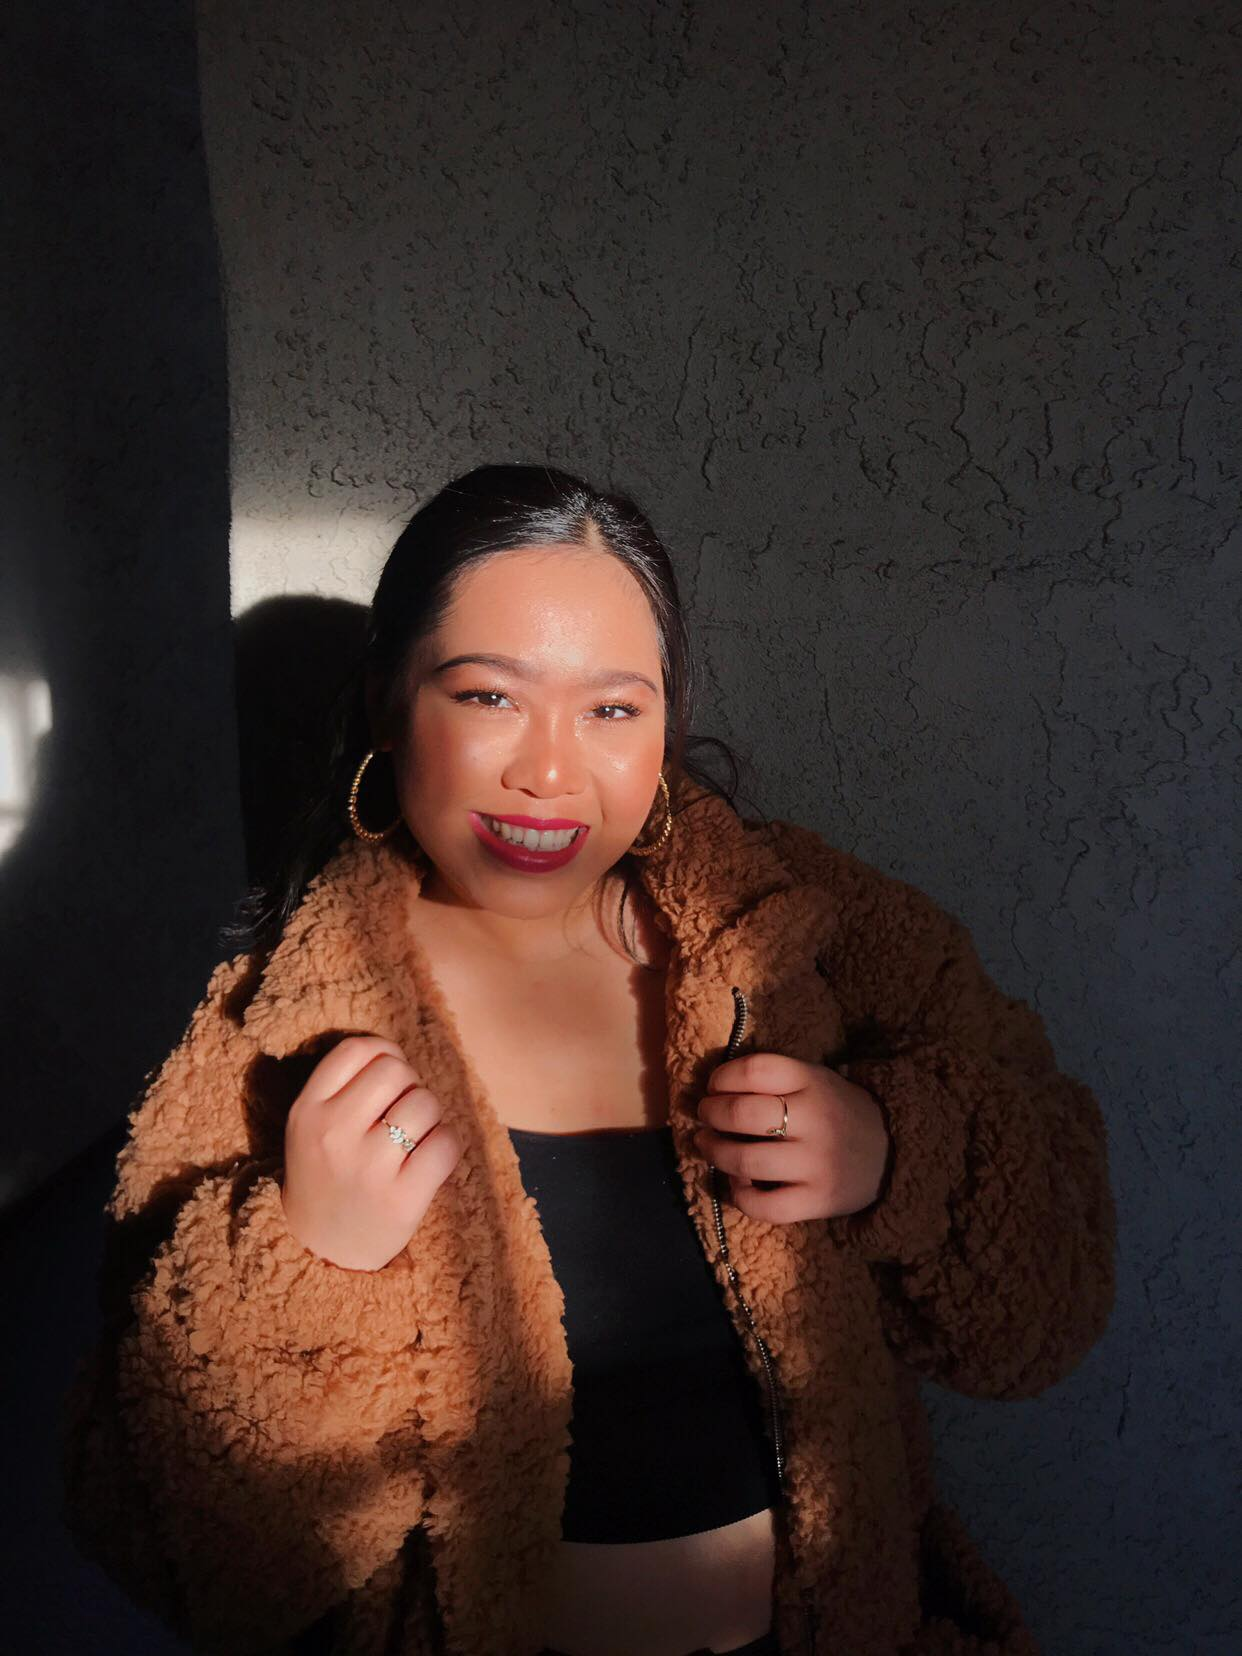
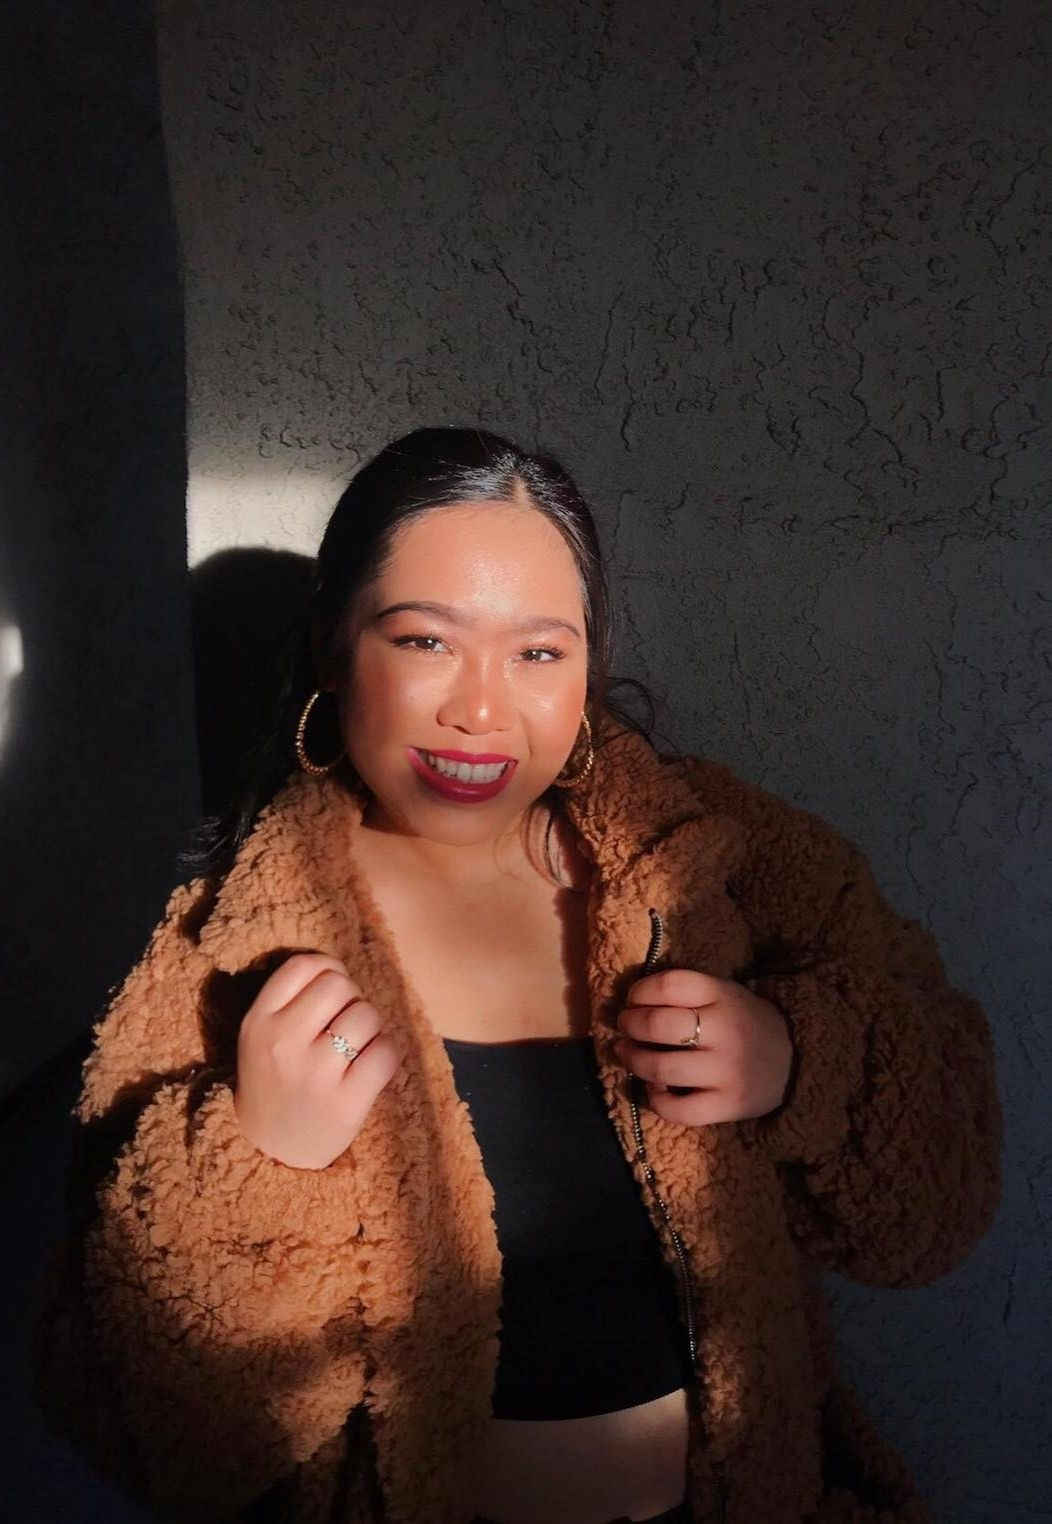
updated pics in gallery + fixed dimensions of newbie pics

diff --git a/js/script.js b/js/script.js
@@ -50,7 +50,7 @@ blueimp.Gallery(
             youtube: '6zPxJDZ3l_E',
             poster: 'https://img.youtube.com/vi/6zPxJDZ3l_E/maxresdefault.jpg'
         },
-        "img/group_pics/g1.jpg",
+        "img/group_pics/g5.jpg",
         {
             title: 'Spring Showcase 2018: Fix You',
             href: 'https://www.youtube.com/watch?v=mqeZPqhXiX8',
@@ -58,7 +58,7 @@ blueimp.Gallery(
             youtube: 'mqeZPqhXiX8',
             poster: 'https://img.youtube.com/vi/mqeZPqhXiX8/maxresdefault.jpg'
         },
-        "img/group_pics/g2.jpg",
+        "img/group_pics/g6.jpg",
         {
             title: 'VCN 2018: Haven\'t Met You Yet',
             href: 'https://www.youtube.com/watch?v=nTCaMGTHD0I',
@@ -66,7 +66,7 @@ blueimp.Gallery(
             youtube: 'nTCaMGTHD0I',
             poster: 'https://img.youtube.com/vi/nTCaMGTHD0I/maxresdefault.jpg'
         },
-        "img/group_pics/g3.jpg",
+        "img/group_pics/g7.jpg",
         {
             title: 'VCN 2018: Unsteady',
             href: 'https://www.youtube.com/watch?v=kpkHumFbk_o',
@@ -74,7 +74,7 @@ blueimp.Gallery(
             youtube: 'kpkHumFbk_o',
             poster: 'https://img.youtube.com/vi/kpkHumFbk_o/maxresdefault.jpg'
         },
-        "img/group_pics/g4.jpg",
+        "img/group_pics/g8.jpg",
         {
             title: 'VCN 2018: Blackbird/I Will/Yesterday Mash-UP',
             href: 'https://www.youtube.com/watch?v=Ogju8H7okHw',
